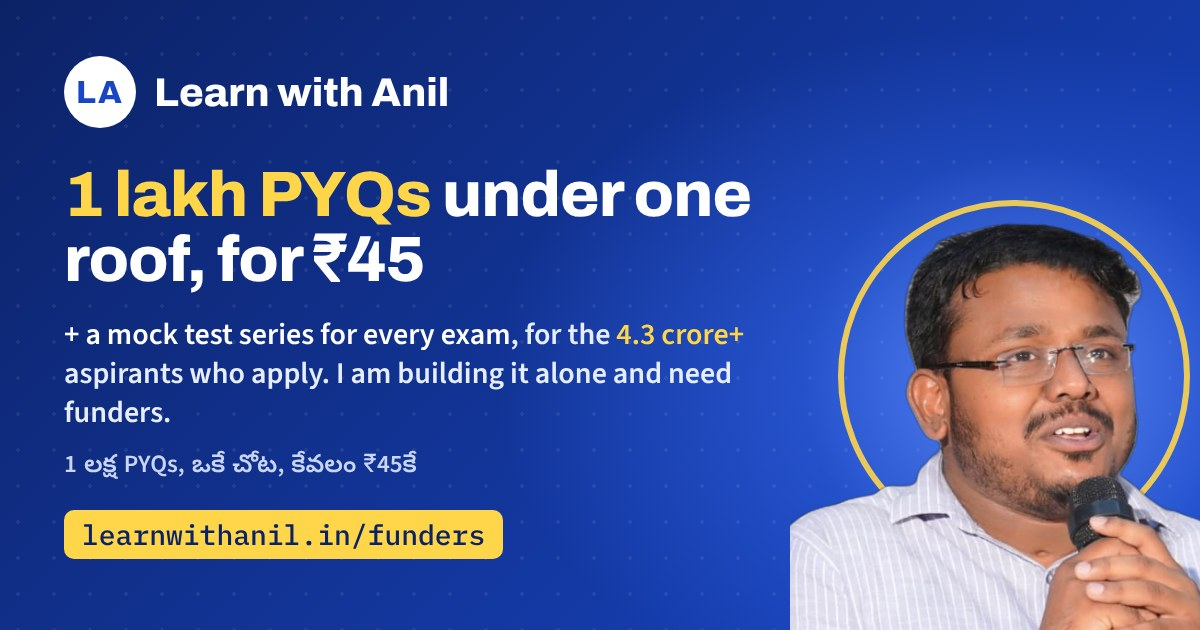
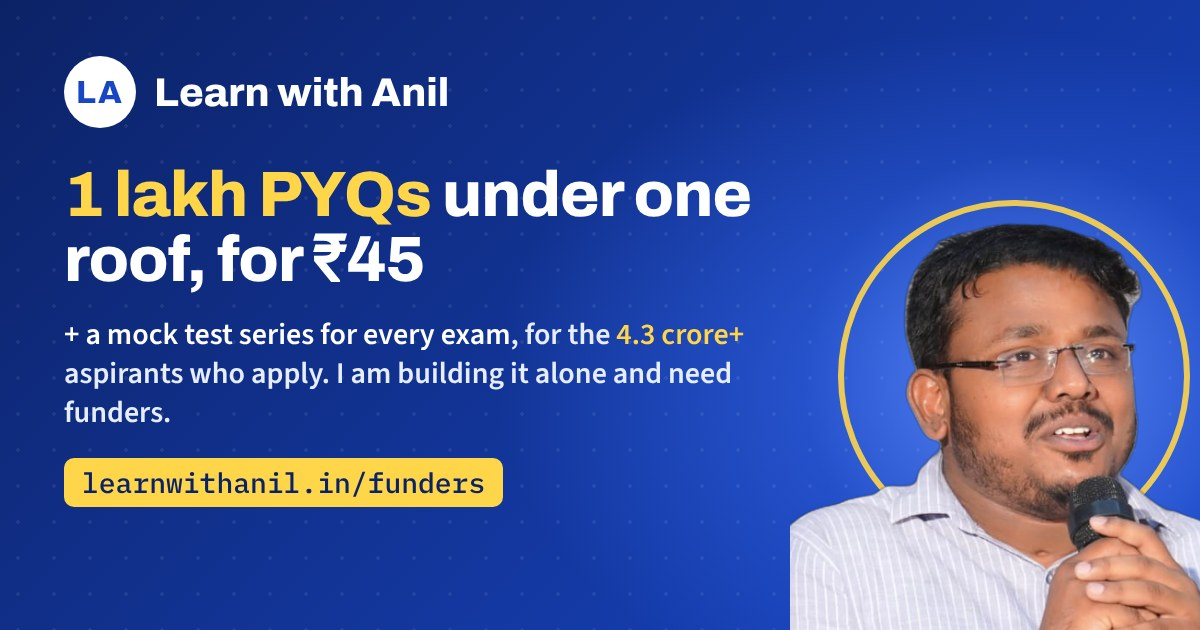
Funders poster: English poster without the Telugu line; Hindi and Telugu posters; the page's poster and download switch with EN / हिंदी / తెలుగు
Claude-Session: https://claude.ai/code/session_013x3q7N36jZFoNLVf7gnL7g

Changed region(s): [[0.0308, 0.7238, 0.4317, 0.9048]]

diff --git a/docs/funders.html b/docs/funders.html
@@ -692,8 +692,8 @@ footer.foot .wrap{padding-block:22px;display:flex;flex-wrap:wrap;gap:12px 24px;j
     <div class="section-title"><h2 data-t="shareT">Help spread the word</h2></div>
     <div class="card fund-box">
       <p data-t="shareP" class="muted">Share this page or the poster with someone who might want to help.</p>
-      <img class="fund-poster" src="/og-funders.jpg" alt="Learn with Anil: 1 lakh PYQs under one roof, for ₹45. Fund this project." width="1200" height="630" loading="lazy">
-      <div class="row"><a class="btn btn-primary" href="https://wa.me/?text=Learn%20with%20Anil%3A%201%20lakh%20PYQs%20of%20government%20exams%20under%20one%20roof%2C%20for%20%E2%82%B945.%20Anil%20is%20building%20it%20alone%20and%20needs%20funders%3A%20https%3A//learnwithanil.in/funders" target="_blank" rel="noopener"><span data-t="shareWa">Share on WhatsApp</span></a><a class="btn btn-secondary" href="/og-funders.jpg" download="LearnWithAnil-Fund-poster.jpg"><span data-t="poster">Download the poster</span></a></div>
+      <img class="fund-poster" src="/og-funders.jpg" data-lsrc-en="/og-funders.jpg" data-lsrc-hi="/og-funders-hi.jpg" data-lsrc-te="/og-funders-te.jpg" alt="Learn with Anil: 1 lakh PYQs under one roof, for ₹45, plus a mock test series for every exam. Fund this project." width="1200" height="630" loading="lazy">
+      <div class="row"><a class="btn btn-primary" href="https://wa.me/?text=Learn%20with%20Anil%3A%201%20lakh%20PYQs%20of%20government%20exams%20under%20one%20roof%2C%20for%20%E2%82%B945.%20Anil%20is%20building%20it%20alone%20and%20needs%20funders%3A%20https%3A//learnwithanil.in/funders" target="_blank" rel="noopener"><span data-t="shareWa">Share on WhatsApp</span></a><a class="btn btn-secondary" href="/og-funders.jpg" data-lhref-en="/og-funders.jpg" data-lhref-hi="/og-funders-hi.jpg" data-lhref-te="/og-funders-te.jpg" download="LearnWithAnil-Fund-poster.jpg"><span data-t="poster">Download the poster</span></a></div>
     </div>
   </section>
 
@@ -709,7 +709,8 @@ footer.foot .wrap{padding-block:22px;display:flex;flex-wrap:wrap;gap:12px 24px;j
 </footer>
 <script>(function(){var T={"eyebrow": {"en": "Fund Learn with Anil", "hi": "Learn with Anil को सहयोग दें", "te": "Learn with Anilకు నిధులు ఇవ్వండి"}, "h1": {"en": "1 lakh PYQs under one roof, <em>for just ₹45.<\/em>", "hi": "1 लाख PYQs एक ही जगह, <em>सिर्फ़ ₹45 में।<\/em>", "te": "1 లక్ష PYQs ఒకే చోట, <em>కేవలం ₹45కే.<\/em>"}, "lede": {"en": "That is the goal of Learn with Anil, along with a mock test series for every exam. I am building this website to be student-friendly and to democratise learning. I am the only person developing it, and I need help from funders: your support, in turn, helps me help the students.", "hi": "यही Learn with Anil का लक्ष्य है, साथ ही हर परीक्षा के लिए एक मॉक टेस्ट सीरीज़। मैं यह वेबसाइट विद्यार्थियों के अनुकूल बनाने और शिक्षा को सबके लिए सुलभ बनाने के लिए बना रहा हूँ। इसे बनाने वाला मैं अकेला व्यक्ति हूँ, और मुझे फंड देने वालों की मदद चाहिए: आपका सहयोग मुझे विद्यार्थियों की मदद करने में सहायता करता है।", "te": "ఇదే Learn with Anil లక్ష్యం, దానితో పాటు ప్రతి పరీక్షకు ఒక మాక్ టెస్ట్ సిరీస్. విద్యార్థులకు అనుకూలంగా, అందరికీ అందుబాటులో ఉండే చదువు కోసం నేను ఈ వెబ్సైట్ను నిర్మిస్తున్నాను. దీన్ని అభివృద్ధి చేస్తున్నది నేను ఒక్కడినే, అందుకే నాకు నిధులు ఇచ్చేవారి సహాయం కావాలి: మీ సహాయం, నేను విద్యార్థులకు సహాయం చేయడానికి తోడ్పడుతుంది."}, "wa": {"en": "WhatsApp me", "hi": "WhatsApp पर संपर्क करें", "te": "WhatsAppలో సంప్రదించండి"}, "mail": {"en": "Email me", "hi": "ईमेल करें", "te": "ఈమెయిల్ చేయండి"}, "mentor": {"en": "Founder, Learn with Anil · UPSC faculty &amp; mentor", "hi": "संस्थापक, Learn with Anil · UPSC शिक्षक और मार्गदर्शक", "te": "వ్యవస్థాపకులు, Learn with Anil · UPSC అధ్యాపకులు, మెంటార్"}, "f1": {"en": "Previous-year questions so far", "hi": "अब तक के पिछले वर्षों के प्रश्न", "te": "ఇప్పటివరకు ఉన్న గత సంవత్సరాల ప్రశ్నలు"}, "f2": {"en": "The goal: 1 lakh PYQs + a mock test series for every exam", "hi": "लक्ष्य: 1 लाख PYQs + हर परीक्षा के लिए मॉक टेस्ट सीरीज़", "te": "లక్ష్యం: 1 లక్ష PYQs + ప్రతి పరీక్షకు మాక్ టెస్ట్ సిరీస్"}, "f3": {"en": "Aspirants apply for these exams in one cycle", "hi": "अभ्यर्थी एक भर्ती चक्र में इन परीक्षाओं के लिए आवेदन करते हैं", "te": "అభ్యర్థులు ఒక్క నియామక చక్రంలో ఈ పరీక్షలకు దరఖాస్తు చేస్తారు"}, "reachT": {"en": "How many students it can help", "hi": "यह कितने विद्यार्थियों की मदद कर सकता है", "te": "ఇది ఎంతమంది విద్యార్థులకు ఉపయోగపడుతుంది"}, "reachV": {"en": "4.3 crore+", "hi": "4.3 करोड़+", "te": "4.3 కోట్లు+"}, "bigL": {"en": "applications from aspirants for the 97 government exams on my list, in a single recruitment cycle. That is how many students this work can reach.", "hi": "मेरी सूची की 97 सरकारी परीक्षाओं के लिए एक ही भर्ती चक्र में अभ्यर्थियों के आवेदन। इतने विद्यार्थियों तक यह काम पहुँच सकता है।", "te": "నా జాబితాలోని 97 ప్రభుత్వ పరీక్షలకు ఒక్క నియామక చక్రంలో వచ్చే దరఖాస్తులు. ఇంతమంది విద్యార్థులకు ఈ పని చేరగలదు."}, "reachP": {"en": "Here is every exam on the Learn with Anil list, with the number of students who applied in its latest recruitment. The exams marked \"Coming soon\" will get their previous-year questions in future. Together, these exams draw <b>more than 4.3 crore applications<\/b> in a single recruitment cycle, 51.7 lakh+ of them for the 10 exams that are already live.", "hi": "यहाँ Learn with Anil की सूची की हर परीक्षा है, उसकी पिछली भर्ती में आवेदन करने वाले विद्यार्थियों की संख्या के साथ। \"जल्द आ रहा है\" वाली परीक्षाओं के पिछले वर्षों के प्रश्न आगे जोड़े जाएँगे। कुल मिलाकर, इन परीक्षाओं में एक ही भर्ती चक्र में <b>4.3 करोड़ से अधिक आवेदन<\/b> आते हैं, जिनमें से 51.7 लाख+ उन 10 परीक्षाओं के हैं जो पहले से उपलब्ध हैं।", "te": "Learn with Anil జాబితాలోని ప్రతి పరీక్ష, దాని తాజా నియామకంలో దరఖాస్తు చేసిన విద్యార్థుల సంఖ్యతో ఇక్కడ ఉంది. \"త్వరలో\" అని ఉన్న పరీక్షల గత ప్రశ్నలు భవిష్యత్తులో చేరుస్తాం. మొత్తం కలిపి, ఈ పరీక్షలకు ఒక్క నియామక చక్రంలోనే <b>4.3 కోట్లుకు పైగా దరఖాస్తులు<\/b> వస్తాయి; వాటిలో 51.7 లక్షలు+ ఇప్పటికే అందుబాటులో ఉన్న 10 పరీక్షలవి."}, "applied": {"en": "applied", "hi": "आवेदन", "te": "దరఖాస్తులు"}, "appeared": {"en": "appeared", "hi": "परीक्षा में बैठे", "te": "హాజరు"}, "lakh": {"en": "lakh", "hi": "लाख", "te": "లక్షలు"}, "crore": {"en": "crore", "hi": "करोड़", "te": "కోట్లు"}, "live": {"en": "Live", "hi": "उपलब्ध", "te": "అందుబాటులో"}, "soon": {"en": "Coming soon", "hi": "जल्द आ रहा है", "te": "త్వరలో"}, "np": {"en": "Number not published", "hi": "संख्या प्रकाशित नहीं", "te": "సంఖ్య ప్రచురించలేదు"}, "reachNote": {"en": "Numbers are for the latest recruitment with a published figure (42 of 97 exams); \"appeared\" is shown, and counted, where only the number who sat the exam was published. UPSC IFoS shares the Civil Services prelims, so it is not added again to the total. Sources: official press notes, annual reports and RTI replies where available, otherwise news and education websites (listed below). An aspirant who applies for two exams is counted twice.", "hi": "संख्याएँ उस पिछली भर्ती की हैं जिसका आँकड़ा प्रकाशित हुआ है (97 में से 42 परीक्षाएँ); जहाँ केवल परीक्षा में बैठने वालों की संख्या प्रकाशित हुई, वहाँ वही दी और गिनी गई है। UPSC IFoS की प्रारंभिक परीक्षा सिविल सेवा के साथ होती है, इसलिए इसे कुल में दोबारा नहीं जोड़ा गया। स्रोत: जहाँ उपलब्ध हों, आधिकारिक प्रेस नोट, वार्षिक रिपोर्ट और RTI उत्तर, अन्यथा समाचार और शिक्षा वेबसाइटें (नीचे सूची)। दो परीक्षाओं के लिए आवेदन करने वाले अभ्यर्थी को दो बार गिना गया है।", "te": "సంఖ్యలు ప్రచురించిన తాజా నియామకానివి (97లో 42 పరీక్షలు); హాజరైన వారి సంఖ్య మాత్రమే ప్రచురించిన చోట అదే ఇచ్చి, లెక్కించాం. UPSC IFoS ప్రిలిమ్స్ సివిల్ సర్వీసెస్తో కలిసే జరుగుతుంది, అందుకే మొత్తంలో మళ్లీ కలపలేదు. ఆధారాలు: అందుబాటులో ఉన్నచోట అధికారిక ప్రెస్ నోట్లు, వార్షిక నివేదికలు, RTI సమాధానాలు; లేకపోతే వార్తా, విద్యా వెబ్సైట్లు (కింద జాబితా). రెండు పరీక్షలకు దరఖాస్తు చేసిన అభ్యర్థిని రెండుసార్లు లెక్కించాం."}, "srcT": {"en": "Sources for every number", "hi": "हर संख्या के स्रोत", "te": "ప్రతి సంఖ్యకు ఆధారం"}, "expandT": {"en": "Next: exams of other states too", "hi": "आगे: दूसरे राज्यों की परीक्षाएँ भी", "te": "తరువాత: ఇతర రాష్ట్రాల పరీక్షలు కూడా"}, "expandP": {"en": "Learn with Anil will not stop at Andhra Pradesh, Telangana and the central exams. It will expand to the public service commission, police and other recruitment exams of other states too, so that aspirants across India can find their exam here, all under the same ₹45 PYQ Pass.", "hi": "Learn with Anil आंध्र प्रदेश, तेलंगाना और केंद्रीय परीक्षाओं तक ही सीमित नहीं रहेगा। यह दूसरे राज्यों के लोक सेवा आयोग, पुलिस और अन्य भर्ती परीक्षाओं तक भी विस्तार करेगा, ताकि पूरे भारत के अभ्यर्थियों को अपनी परीक्षा यहीं मिले, सब कुछ उसी ₹45 PYQ पास में।", "te": "Learn with Anil ఆంధ్రప్రదేశ్, తెలంగాణ, కేంద్ర పరీక్షల వద్దే ఆగిపోదు. ఇతర రాష్ట్రాల పబ్లిక్ సర్వీస్ కమిషన్, పోలీస్, ఇతర నియామక పరీక్షలకు కూడా విస్తరిస్తుంది, తద్వారా దేశవ్యాప్తంగా అభ్యర్థులు తమ పరీక్షను ఇక్కడే, అదే ₹45 PYQ పాస్లో పొందగలరు."}, "f4": {"en": "One PYQ Pass for every exam · 12 months", "hi": "सभी परीक्षाओं के लिए एक PYQ पास · 12 महीने", "te": "అన్ని పరీక్షలకు ఒకే PYQ పాస్ · 12 నెలలు"}, "progT": {"en": "Progress to 1 lakh", "hi": "1 लाख की ओर प्रगति", "te": "1 లక్ష వైపు ప్రగతి"}, "progP": {"en": "So far: <b>7,009<\/b> of 1,00,000 questions (7%). Your support helps me reach the goal sooner.", "hi": "अब तक: 1,00,000 में से <b>7,009<\/b> प्रश्न (7%)। आपका सहयोग मुझे लक्ष्य तक जल्दी पहुँचने में मदद करता है।", "te": "ఇప్పటివరకు: 1,00,000లో <b>7,009<\/b> ప్రశ్నలు (7%). మీ సహాయంతో లక్ష్యాన్ని త్వరగా చేరుకోగలను."}, "builtT": {"en": "What is already built", "hi": "अब तक क्या बना है", "te": "ఇప్పటికే ఏమి సిద్ధమైంది"}, "b1t": {"en": "Real papers, official answers", "hi": "असली प्रश्न पत्र, आधिकारिक उत्तर", "te": "అసలు ప్రశ్నపత్రాలు, అధికారిక సమాధానాలు"}, "b1p": {"en": "7,009 previous-year questions from 10 government exams, each with its answer (from the official key wherever one has been published) and a short explanation.", "hi": "10 सरकारी परीक्षाओं के 7,009 पिछले वर्षों के प्रश्न, हर प्रश्न का उत्तर (जहाँ आधिकारिक कुंजी प्रकाशित हुई है, वहाँ उसी से) और एक संक्षिप्त व्याख्या के साथ।", "te": "10 ప్రభుత్వ పరీక్షల 7,009 గత సంవత్సరాల ప్రశ్నలు, ప్రతి ప్రశ్నకు సమాధానం (అధికారిక కీ ప్రచురించిన చోట దాని నుంచే) మరియు చిన్న వివరణతో."}, "b2t": {"en": "In your language", "hi": "आपकी भाषा में", "te": "మీ భాషలో"}, "b2p": {"en": "Questions and explanations in English, Telugu and Hindi (each exam in the languages of its own paper), on any phone.", "hi": "प्रश्न और व्याख्याएँ अंग्रेज़ी, तेलुगु और हिंदी में (हर परीक्षा उसके अपने प्रश्न पत्र की भाषाओं में), किसी भी फ़ोन पर।", "te": "ప్రశ్నలు, వివరణలు ఇంగ్లీష్, తెలుగు, హిందీలో (ప్రతి పరీక్ష దాని ప్రశ్నపత్రం భాషల్లో), ఏ ఫోన్లోనైనా."}, "b3t": {"en": "Prepare without a coaching fee", "hi": "बिना कोचिंग फ़ीस के तैयारी", "te": "కోచింగ్ ఫీజు లేకుండా సన్నద్ధత"}, "b3p": {"en": "Topic-wise practice, timed mock tests and a mistakes notebook.", "hi": "विषयवार अभ्यास, समयबद्ध मॉक टेस्ट और गलतियों की नोटबुक।", "te": "అంశాలవారీ ప్రాక్టీస్, సమయబద్ధ మాక్ టెస్ట్లు, తప్పుల నోట్బుక్."}, "b4t": {"en": "Free to read, ₹45 to practise", "hi": "पढ़ना मुफ़्त, अभ्यास ₹45 में", "te": "చదవడం ఉచితం, ప్రాక్టీస్ ₹45కే"}, "b4p": {"en": "Every question and its correct answer can be read for free, along with the explanations for the first 10 questions of every paper. One ₹45 PYQ Pass unlocks every explanation and all the online practice and tests for 12 months.", "hi": "हर प्रश्न और उसका सही उत्तर मुफ़्त में पढ़ा जा सकता है, साथ ही हर प्रश्न पत्र के पहले 10 प्रश्नों की व्याख्याएँ भी। एक ₹45 PYQ पास 12 महीनों के लिए सभी व्याख्याएँ और सारा ऑनलाइन अभ्यास व टेस्ट खोल देता है।", "te": "ప్రతి ప్రశ్న, దాని సరైన సమాధానం ఉచితంగా చదవొచ్చు; ప్రతి ప్రశ్నపత్రంలోని మొదటి 10 ప్రశ్నల వివరణలు కూడా ఉచితం. ఒకే ₹45 PYQ పాస్తో 12 నెలల పాటు అన్ని వివరణలు, ఆన్లైన్ ప్రాక్టీస్, టెస్ట్లు తెరుచుకుంటాయి."}, "whyT": {"en": "Why the project needs funding", "hi": "इस परियोजना को धन की ज़रूरत क्यों है", "te": "ఈ ప్రాజెక్ట్కు నిధులు ఎందుకు అవసరం"}, "whyP": {"en": "I am the only person developing Learn with Anil. Every paper has to be found, typed from the official question booklet, checked against the official answer key, explained and translated, and then kept up to date whenever the keys change. The website itself also has to be built and kept running. I keep the price at ₹45 so that every aspirant can afford it, which means that fees alone cannot pay for this work.", "hi": "Learn with Anil को बनाने वाला मैं अकेला व्यक्ति हूँ। हर प्रश्न पत्र को खोजना, आधिकारिक प्रश्न पुस्तिका से टाइप करना, आधिकारिक उत्तर कुंजी से मिलाना, समझाना और अनुवाद करना पड़ता है, और जब भी कुंजी बदले, उसे अपडेट रखना पड़ता है। वेबसाइट को भी बनाना और चलाते रहना पड़ता है। मैं कीमत ₹45 रखता हूँ ताकि हर अभ्यर्थी इसे ले सके, इसलिए सिर्फ़ फ़ीस से यह काम नहीं चल सकता।", "te": "Learn with Anilను అభివృద్ధి చేస్తున్నది నేను ఒక్కడినే. ప్రతి ప్రశ్నపత్రాన్ని వెతకాలి, అధికారిక ప్రశ్నాపత్రం నుంచి టైప్ చేయాలి, అధికారిక సమాధాన కీతో సరిచూడాలి, వివరణ రాయాలి, అనువదించాలి, కీ మారినప్పుడల్లా అప్డేట్ చేయాలి. వెబ్సైట్ను కూడా నిర్మించి, నడుపుతూ ఉండాలి. ప్రతి అభ్యర్థి కొనగలిగేలా ధరను ₹45గా ఉంచుతున్నాను, అందుకే కేవలం ఫీజులతో ఈ పని నడవదు."}, "helpT": {"en": "What your support will help me do", "hi": "आपका सहयोग मुझे क्या करने में मदद करेगा", "te": "మీ సహాయం దేనికి ఉపయోగపడుతుంది"}, "h1t": {"en": "Reach 1 lakh PYQs sooner", "hi": "1 लाख PYQs तक जल्दी पहुँचना", "te": "1 లక్ష PYQsను త్వరగా చేరుకోవడం"}, "h1p": {"en": "Add the remaining government exams, including other states’ exams (state PSCs, police, SSC, banks, railways and defence), so that every aspirant finds their exam here.", "hi": "दूसरे राज्यों की परीक्षाओं समेत बाकी सरकारी परीक्षाएँ (राज्य PSC, पुलिस, SSC, बैंक, रेलवे और रक्षा) जोड़ना, ताकि हर अभ्यर्थी को यहाँ अपनी परीक्षा मिले।", "te": "ఇతర రాష్ట్రాల పరీక్షలతో సహా మిగిలిన ప్రభుత్వ పరీక్షలను (రాష్ట్ర PSCలు, పోలీస్, SSC, బ్యాంకులు, రైల్వేలు, రక్షణ రంగం) చేర్చడం, తద్వారా ప్రతి అభ్యర్థికి తన పరీక్ష ఇక్కడ దొరుకుతుంది."}, "h2t": {"en": "More explanations and translations", "hi": "और व्याख्याएँ और अनुवाद", "te": "మరిన్ని వివరణలు, అనువాదాలు"}, "h2p": {"en": "Explain and translate more papers in English, Telugu and Hindi.", "hi": "अंग्रेज़ी, तेलुगु और हिंदी में और प्रश्न पत्रों की व्याख्या और अनुवाद करना।", "te": "ఇంగ్లీష్, తెలుగు, హిందీలో మరిన్ని ప్రశ్నపత్రాలకు వివరణలు, అనువాదాలు."}, "h4t": {"en": "A mock test series for every exam", "hi": "हर परीक्षा के लिए मॉक टेस्ट सीरीज़", "te": "ప్రతి పరీక్షకు మాక్ టెస్ట్ సిరీస్"}, "h4p": {"en": "Write full-length mock tests in each exam’s own pattern, like Mission Khaki for TS Police SI and Mission CGL for SSC CGL, so that every aspirant can practise for their exam, not just read old papers.", "hi": "हर परीक्षा के अपने पैटर्न में पूरी लंबाई के मॉक टेस्ट तैयार करना, जैसे TS पुलिस SI के लिए Mission Khaki और SSC CGL के लिए Mission CGL, ताकि हर अभ्यर्थी केवल पुराने प्रश्न पत्र पढ़े नहीं, अपनी परीक्षा का अभ्यास भी करे।", "te": "ప్రతి పరీక్ష సొంత నమూనాలో పూర్తి నిడివి మాక్ టెస్ట్లు రాయడం, TS పోలీస్ SIకి Mission Khaki, SSC CGLకి Mission CGL లాగా, తద్వారా ప్రతి అభ్యర్థి పాత ప్రశ్నపత్రాలు చదవడమే కాకుండా తన పరీక్షకు ప్రాక్టీస్ కూడా చేయగలరు."}, "h3t": {"en": "Keep it at ₹45", "hi": "कीमत ₹45 ही रखना", "te": "ధర ₹45గానే ఉంచడం"}, "h3p": {"en": "Keep the PYQ Pass at ₹45 and the mock test series affordable, within reach of every student.", "hi": "PYQ पास ₹45 पर और मॉक टेस्ट सीरीज़ किफ़ायती रखना, हर विद्यार्थी की पहुँच में।", "te": "PYQ పాస్ను ₹45కే, మాక్ టెస్ట్ సిరీస్ను తక్కువ ధరకే ఉంచడం, ప్రతి విద్యార్థికి అందుబాటులో."}, "whoT": {"en": "Who can fund", "hi": "कौन सहयोग कर सकता है", "te": "ఎవరు నిధులు ఇవ్వవచ్చు"}, "whoP": {"en": "I welcome support from individuals, alumni, teachers, institutions, companies and foundations who believe that good exam preparation should not depend on how much a student can pay. Support can take the form of a grant, a sponsorship or a partnership, and I will work out the details with you.", "hi": "मैं उन व्यक्तियों, पूर्व छात्रों, शिक्षकों, संस्थानों, कंपनियों और फ़ाउंडेशनों के सहयोग का स्वागत करता हूँ जो मानते हैं कि अच्छी परीक्षा तैयारी इस पर निर्भर नहीं होनी चाहिए कि विद्यार्थी कितना खर्च कर सकता है। सहयोग अनुदान, प्रायोजन या साझेदारी के रूप में हो सकता है, और विवरण मैं आपके साथ मिलकर तय करूँगा।", "te": "మంచి పరీక్షా సన్నద్ధత విద్యార్థి ఎంత ఖర్చు చేయగలడనే దానిపై ఆధారపడకూడదని నమ్మే వ్యక్తులు, పూర్వ విద్యార్థులు, ఉపాధ్యాయులు, సంస్థలు, కంపెనీలు, ఫౌండేషన్ల సహాయాన్ని స్వాగతిస్తున్నాను. సహాయం గ్రాంట్, స్పాన్సర్షిప్ లేదా భాగస్వామ్య రూపంలో ఉండవచ్చు; వివరాలను మీతో కలిసి నిర్ణయిస్తాను."}, "contactT": {"en": "Get in touch", "hi": "संपर्क करें", "te": "సంప్రదించండి"}, "founder": {"en": "Founder, Learn with Anil", "hi": "संस्थापक, Learn with Anil", "te": "వ్యవస్థాపకులు, Learn with Anil"}, "hours": {"en": "10 am – 7 pm, Monday to Saturday", "hi": "सुबह 10 बजे – शाम 7 बजे, सोमवार से शनिवार", "te": "ఉదయం 10 – సాయంత్రం 7, సోమవారం నుంచి శనివారం"}, "note": {"en": "Please do not send money to anyone who claims to be collecting it for me. I agree on every contribution directly with you, in writing.", "hi": "कृपया किसी ऐसे व्यक्ति को पैसे न भेजें जो मेरे नाम पर पैसे इकट्ठा करने का दावा करे। हर सहयोग मैं सीधे आपके साथ, लिखित रूप में तय करता हूँ।", "te": "నా తరఫున డబ్బు వసూలు చేస్తున్నామని చెప్పే ఎవరికీ డబ్బు పంపవద్దు. ప్రతి సహాయాన్ని నేరుగా మీతో, లిఖితపూర్వకంగా ఒప్పందం చేసుకుంటాను."}, "shareT": {"en": "Help spread the word", "hi": "यह बात आगे बढ़ाएँ", "te": "ఈ విషయాన్ని అందరికీ తెలియజేయండి"}, "shareP": {"en": "Share this page or the poster with someone who might want to help.", "hi": "यह पेज या पोस्टर किसी ऐसे व्यक्ति के साथ साझा करें जो मदद करना चाहे।", "te": "సహాయం చేయాలనుకునే వారితో ఈ పేజీని లేదా పోస్టర్ను పంచుకోండి."}, "shareWa": {"en": "Share on WhatsApp", "hi": "WhatsApp पर साझा करें", "te": "WhatsAppలో పంచుకోండి"}, "poster": {"en": "Download the poster", "hi": "पोस्टर डाउनलोड करें", "te": "పోస్టర్ డౌన్లోడ్ చేయండి"}, "aboutT": {"en": "About me", "hi": "मेरे बारे में", "te": "నా గురించి"}, "aboutP": {"en": "I am Jupudi Anil Kumar, a civil-services educator with more than 1,000 hours of teaching UPSC, APPSC and TGPSC aspirants. Learn with Anil is my independent initiative.", "hi": "मैं जुपुडी अनिल कुमार हूँ, एक सिविल सेवा शिक्षक। मैंने UPSC, APPSC और TGPSC अभ्यर्थियों को 1,000 से अधिक घंटे पढ़ाया है। Learn with Anil मेरी स्वतंत्र पहल है।", "te": "నేను జూపూడి అనిల్ కుమార్, సివిల్ సర్వీసెస్ అధ్యాపకుడిని. UPSC, APPSC, TGPSC అభ్యర్థులకు 1,000 గంటలకు పైగా బోధించాను. Learn with Anil నా స్వతంత్ర కార్యక్రమం."}, "aboutL": {"en": "Read more about me", "hi": "मेरे बारे में और पढ़ें", "te": "నా గురించి మరింత చదవండి"}};
 function apply(l){document.documentElement.lang=l;document.querySelectorAll('[data-t]').forEach(function(el){var x=T[el.getAttribute('data-t')];if(!x)return;el.innerHTML=x[l]||x.en;if(l==='en')el.removeAttribute('lang');else el.setAttribute('lang',l);});
-document.querySelectorAll('.lang button').forEach(function(b){b.setAttribute('aria-pressed',String(b.getAttribute('data-l')===l));});}
+document.querySelectorAll('.lang button').forEach(function(b){b.setAttribute('aria-pressed',String(b.getAttribute('data-l')===l));});
+document.querySelectorAll('[data-lsrc-'+l+']').forEach(function(e){e.src=e.getAttribute('data-lsrc-'+l);});document.querySelectorAll('[data-lhref-'+l+']').forEach(function(e){e.href=e.getAttribute('data-lhref-'+l);});}
 document.querySelectorAll('.lang button').forEach(function(b){b.addEventListener('click',function(){var l=b.getAttribute('data-l');apply(l);try{localStorage.setItem('lwa-lang',l);}catch(e){}});});
 try{var g=localStorage.getItem('lwa-lang');if(g==='hi'||g==='te')apply(g);}catch(e){}})();</script>
 </body>

diff --git a/tools/build.py b/tools/build.py
@@ -2170,8 +2170,8 @@ def funders_page(loaded):
     <div class="section-title">{t('shareT', 'h2')}</div>
     <div class="card fund-box">
       {t('shareP', 'p', 'class="muted"')}
-      <img class="fund-poster" src="/og-funders.jpg" alt="Learn with Anil: 1 lakh PYQs under one roof, for ₹45. Fund this project." width="1200" height="630" loading="lazy">
-      <div class="row"><a class="btn btn-primary" href="{share}" target="_blank" rel="noopener">{t('shareWa')}</a><a class="btn btn-secondary" href="/og-funders.jpg" download="LearnWithAnil-Fund-poster.jpg">{t('poster')}</a></div>
+      <img class="fund-poster" src="/og-funders.jpg" data-lsrc-en="/og-funders.jpg" data-lsrc-hi="/og-funders-hi.jpg" data-lsrc-te="/og-funders-te.jpg" alt="Learn with Anil: 1 lakh PYQs under one roof, for ₹45, plus a mock test series for every exam. Fund this project." width="1200" height="630" loading="lazy">
+      <div class="row"><a class="btn btn-primary" href="{share}" target="_blank" rel="noopener">{t('shareWa')}</a><a class="btn btn-secondary" href="/og-funders.jpg" data-lhref-en="/og-funders.jpg" data-lhref-hi="/og-funders-hi.jpg" data-lhref-te="/og-funders-te.jpg" download="LearnWithAnil-Fund-poster.jpg">{t('poster')}</a></div>
     </div>
   </section>
 
@@ -2187,7 +2187,8 @@ def funders_page(loaded):
 </footer>
 <script>(function(){{var T={tj};
 function apply(l){{document.documentElement.lang=l;document.querySelectorAll('[data-t]').forEach(function(el){{var x=T[el.getAttribute('data-t')];if(!x)return;el.innerHTML=x[l]||x.en;if(l==='en')el.removeAttribute('lang');else el.setAttribute('lang',l);}});
-document.querySelectorAll('.lang button').forEach(function(b){{b.setAttribute('aria-pressed',String(b.getAttribute('data-l')===l));}});}}
+document.querySelectorAll('.lang button').forEach(function(b){{b.setAttribute('aria-pressed',String(b.getAttribute('data-l')===l));}});
+document.querySelectorAll('[data-lsrc-'+l+']').forEach(function(e){{e.src=e.getAttribute('data-lsrc-'+l);}});document.querySelectorAll('[data-lhref-'+l+']').forEach(function(e){{e.href=e.getAttribute('data-lhref-'+l);}});}}
 document.querySelectorAll('.lang button').forEach(function(b){{b.addEventListener('click',function(){{var l=b.getAttribute('data-l');apply(l);try{{localStorage.setItem('lwa-lang',l);}}catch(e){{}}}});}});
 try{{var g=localStorage.getItem('lwa-lang');if(g==='hi'||g==='te')apply(g);}}catch(e){{}}}})();</script>
 </body>
